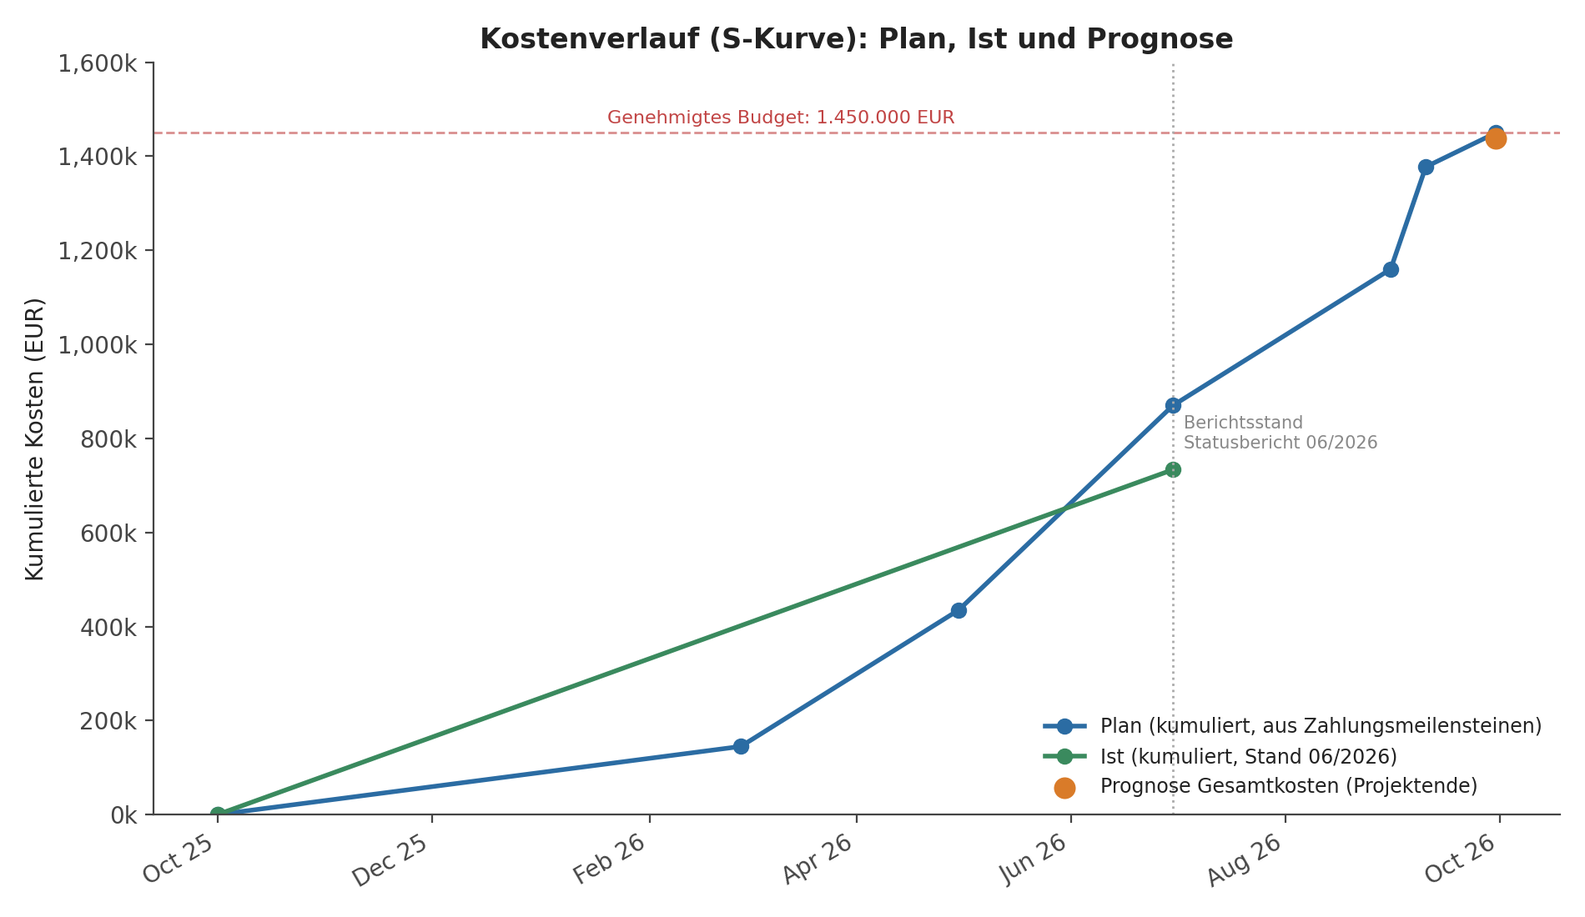
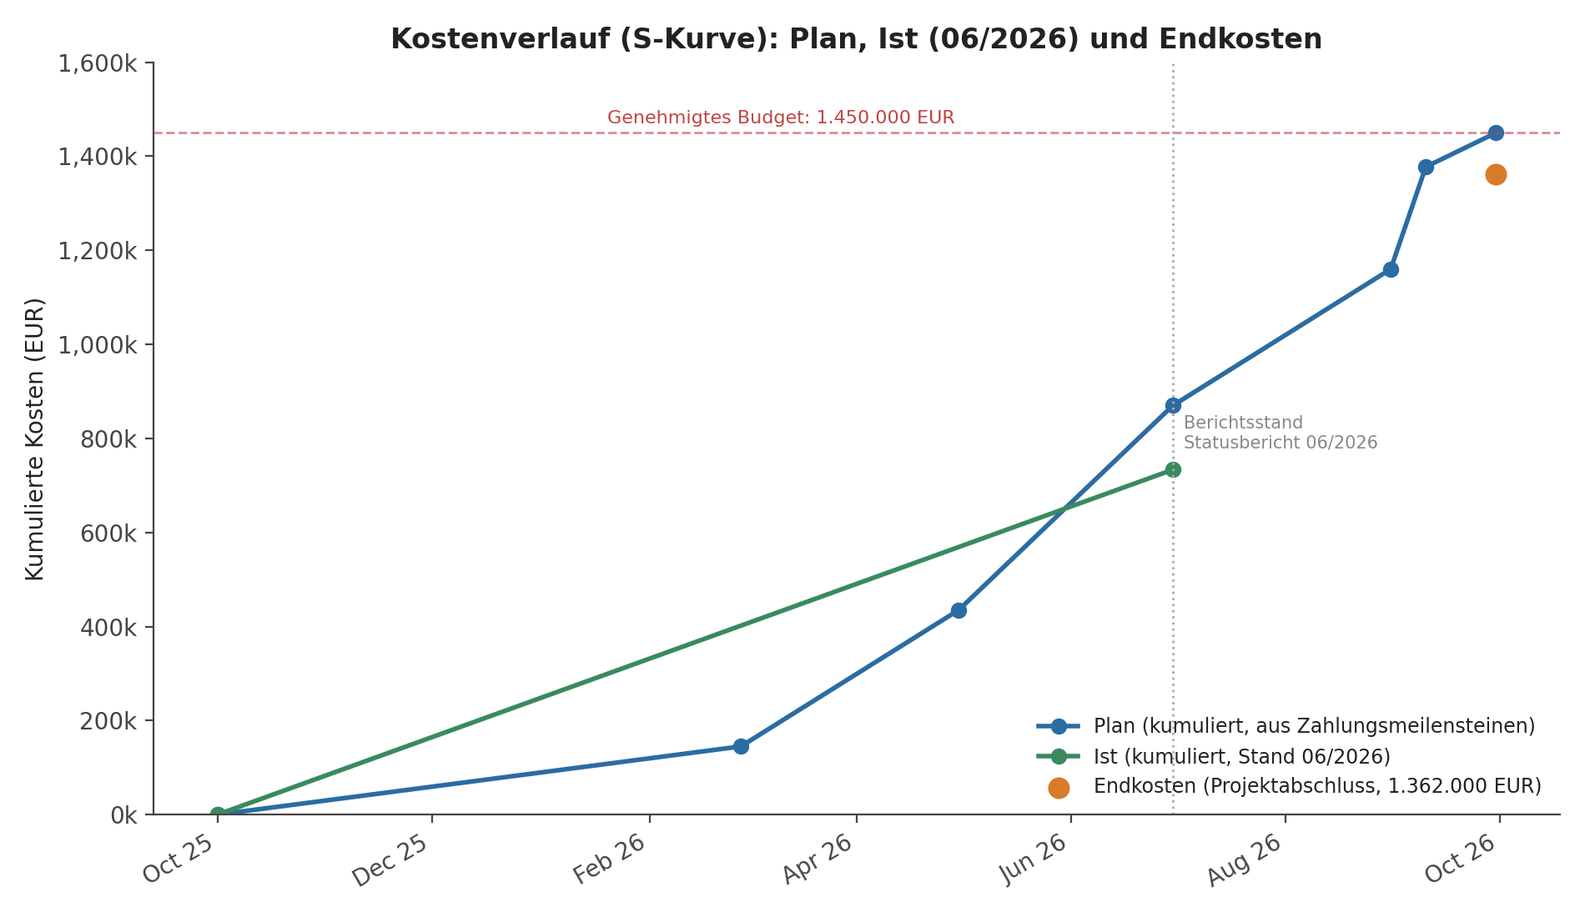
v3 changes
before file sortment

Changed region(s): [[0.6521, 0.7727, 0.9626, 0.8655], [0.2484, 0.0309, 0.8384, 0.0618], [0.9316, 0.1236, 0.9626, 0.2164]]

diff --git a/portfolio_dashboard.html b/portfolio_dashboard.html
@@ -161,7 +161,7 @@
   <main>
     <section id="uebersicht" class="panel active">
       <h1>Portfolio-Übersicht</h1>
-      <p class="lede">Status aller internen Projekte.</p>
+      <p class="lede">Status aller internen Projekte. Portfolio-Berichtsstand: 13.07.2026 (Vorbereitung Steering Board 20.07.2026). P1 befindet sich zu diesem Stand in der Ausführung; der Abschluss von P1 (30.09.2026) ist in <code>data/</code> und <code>docs/</code> dokumentiert.</p>
       <div class="stat-row" id="statRow"></div>
       <div class="card">
         <h2>Budget nach Kategorie</h2>
@@ -223,7 +223,7 @@
 
 <script>
 const projects = [
-  {id:'P1', name:'380-kV-Leistungsschalterfeld UW Mitte', kategorie:'Anlagenerneuerung', nutzen:4, risiko:4, dringlichkeit:4, budget:1450000, ist:733500, fortschritt:64, status:'gruen', start:'2025-10-01', end:'2026-09-30'},
+  {id:'P1', name:'380-kV-Leistungsschalterfeld UW Mitte', kategorie:'Anlagenerneuerung', nutzen:4, risiko:4, dringlichkeit:4, budget:1450000, ist:733500, fortschritt:71, status:'gruen', start:'2025-10-01', end:'2026-09-30'},
   {id:'P2', name:'Einheitliches PM-Reporting für interne Projekte', kategorie:'Governance & PM-Standards', nutzen:5, risiko:2, dringlichkeit:5, budget:180000, ist:40000, fortschritt:20, status:'gruen', start:'2026-06-01', end:'2027-01-31'},
   {id:'P3', name:'Standardisierung Inbetriebnahme-Checklisten', kategorie:'Qualität & Prozess', nutzen:3, risiko:2, dringlichkeit:3, budget:95000, ist:60000, fortschritt:55, status:'gelb', start:'2026-05-01', end:'2026-11-30'},
   {id:'P4', name:'Digitalisierung Ersatzteillager-Verwaltung', kategorie:'Digitalisierung', nutzen:4, risiko:3, dringlichkeit:3, budget:310000, ist:55000, fortschritt:15, status:'gruen', start:'2026-06-01', end:'2027-04-30'},
@@ -244,7 +244,6 @@ const risks = [
   {id:'R-06', projekt:'P1', beschreibung:'Sicherheitsverstoß auf Baustelle', wert:15, owner:'Arbeitssicherheit'},
   {id:'R-04', projekt:'P1', beschreibung:'Verdeckte Fundamentschäden', wert:12, owner:'Bautechnik'},
   {id:'R-05', projekt:'P1', beschreibung:'Unvollständige Abschlussdokumentation', wert:12, owner:'Projektleitung'},
-  {id:'R-08', projekt:'P1', beschreibung:'FAT zeigt kritische Funktionsabweichung', wert:12, owner:'Fachprojektleitung'},
   {id:'R-07', projekt:'P1', beschreibung:'Kran oder Transportmittel nicht verfügbar', wert:8, owner:'Auftragnehmer'},
   {id:'R-09', projekt:'P2', beschreibung:'Geringe Akzeptanz des neuen Reporting-Tools bei Projektleitern', wert:12, owner:'PMO'},
   {id:'R-11', projekt:'P5', beschreibung:'Verzögerte Freigaben durch Einkauf verlangsamen Rollout', wert:10, owner:'Einkauf'},
@@ -378,7 +377,7 @@ function renderGantt(){
   const today = '2026-07-13';
   const todayLeft = labelW + pct(today)*chartW;
   html += `<div class="gantt-today-line" style="left:${todayLeft}px; top:${headerH}px; height:${lineBottom-headerH}px;"></div>`;
-  html += `<div class="gantt-axis-label" style="left:${todayLeft+4}px; top:${lineBottom+2}px; color:var(--brand-deep); font-weight:600;">Heute</div>`;
+  html += `<div class="gantt-axis-label" style="left:${todayLeft+4}px; top:${lineBottom+2}px; color:var(--brand-deep); font-weight:600;">Stand 13.07.</div>`;
 
   projects.forEach((p,i)=>{
     const top = headerH + i*rowH;

diff --git a/assets/diagrams/make_charts.py b/assets/diagrams/make_charts.py
@@ -156,15 +156,15 @@ plan_points = [
     (dt.date(2026,9,10), 1377500),     # M7 Inbetriebnahme - 95% cum.
     (dt.date(2026,9,30), 1450000),     # M8 Abschluss - 100% cum.
 ]
-ist_point = (dt.date(2026,6,30), 733500)   # Summe Ist_EUR aus budgetplan.csv, Berichtsstand Statusbericht 06/2026
-prognose_point = (dt.date(2026,9,30), 1438000)  # Summe Prognose_EUR aus budgetplan.csv
+ist_point = (dt.date(2026,6,30), 733500)   # Summe Ist_06_2026_EUR aus budgetplan.csv, Berichtsstand Statusbericht 06/2026
+prognose_point = (dt.date(2026,9,30), 1362000)  # Summe Ist_EUR aus budgetplan.csv, Endkosten bei Projektabschluss
 
 fig, ax = plt.subplots(figsize=(9.5, 5.5))
 px = [p[0] for p in plan_points]
 py = [p[1] for p in plan_points]
 ax.plot(px, py, color=BLUE, marker="o", lw=2, label="Plan (kumuliert, aus Zahlungsmeilensteinen)")
 ax.plot([dt.date(2025,10,1), ist_point[0]], [0, ist_point[1]], color=GREEN, lw=2, marker="o", label="Ist (kumuliert, Stand 06/2026)")
-ax.scatter([prognose_point[0]], [prognose_point[1]], color=ORANGE, s=70, zorder=5, label="Prognose Gesamtkosten (Projektende)")
+ax.scatter([prognose_point[0]], [prognose_point[1]], color=ORANGE, s=70, zorder=5, label="Endkosten (Projektabschluss, 1.362.000 EUR)")
 ax.axhline(1450000, color=RED, lw=1, ls="--", alpha=0.6)
 ax.text(dt.date(2026,1,20), 1470000, "Genehmigtes Budget: 1.450.000 EUR", color=RED, fontsize=8, ha="left")
 
@@ -175,7 +175,7 @@ ax.xaxis.set_major_formatter(mdates.DateFormatter("%b %y"))
 ax.xaxis.set_major_locator(mdates.MonthLocator(interval=2))
 ax.set_ylim(0, 1600000)
 ax.set_ylabel("Kumulierte Kosten (EUR)")
-ax.set_title("Kostenverlauf (S-Kurve): Plan, Ist und Prognose", fontsize=12, fontweight="bold")
+ax.set_title("Kostenverlauf (S-Kurve): Plan, Ist (06/2026) und Endkosten", fontsize=12, fontweight="bold")
 ax.legend(loc="lower right", fontsize=8.5, frameon=False)
 ax.spines[["top","right"]].set_visible(False)
 ax.yaxis.set_major_formatter(lambda v, pos: f"{v/1000:,.0f}k")
@@ -410,7 +410,7 @@ ax.set_ylim(0, 520)
 ax2 = ax.twinx()
 ax2.plot(xs, [s/1000 for s in summe], color=DARK, marker="o", lw=2.2, label="Kostensummenlinie (Plan, kumuliert)")
 ax2.scatter([8], [733.5], color=GREEN, s=80, zorder=6, label="Ist kumuliert (Stand 06/2026: 733.500 EUR)")
-ax2.scatter([11], [1438], color=ORANGE, s=80, zorder=6, label="Prognose Projektende (1.438.000 EUR)")
+ax2.scatter([11], [1362], color=ORANGE, s=80, zorder=6, label="Endkosten Projektabschluss (1.362.000 EUR)")
 ax2.axhline(1450, color=RED, lw=1, ls="--", alpha=0.6)
 ax2.text(0.0, 1468, "Genehmigtes Budget 1.450.000 EUR", color=RED, fontsize=8)
 ax2.set_ylim(0, 1650)

diff --git a/src/project_dashboard.py b/src/project_dashboard.py
@@ -23,6 +23,10 @@ from typing import Iterable
 ROOT = Path(__file__).resolve().parents[1]
 DATA = ROOT / "data"
 
+# Datenstand der CSV-Dateien: Projektabschluss (Meilenstein M8).
+# Für den laufenden Betrieb stattdessen date.today() verwenden.
+DATENSTAND = date(2026, 9, 30)
+
 
 def read_csv(filename: str) -> list[dict[str, str]]:
     path = DATA / filename
@@ -50,6 +54,7 @@ def budget_summary() -> None:
     forecast = sum(float(r["Prognose_EUR"]) for r in rows)
     variance = forecast - plan
     variance_pct = variance / plan * 100 if plan else 0.0
+    overrun_pct = max(variance_pct, 0.0)  # nur Überschreitungen werden bewertet
 
     heading("BUDGETSTATUS")
     print(f"Plan:        {eur(plan)}")
@@ -58,9 +63,9 @@ def budget_summary() -> None:
     print(f"Prognose:    {eur(forecast)}")
     print(f"Abweichung:  {eur(variance)} ({variance_pct:+.2f} %)")
 
-    if abs(variance_pct) <= 2:
+    if overrun_pct <= 2:
         status = "GRÜN"
-    elif abs(variance_pct) <= 5:
+    elif overrun_pct <= 5:
         status = "GELB"
     else:
         status = "ROT"
@@ -90,6 +95,8 @@ def risk_summary() -> None:
     top = sorted(open_risks, key=lambda r: int(r["Risikowert"]), reverse=True)[:5]
 
     heading("TOP-RISIKEN")
+    if not top:
+        print(f"Keine offenen Risiken (alle {len(rows)} Risiken geschlossen).")
     for r in top:
         print(
             f"{r['ID']:5} | Wert {int(r['Risikowert']):2} | "
@@ -139,7 +146,7 @@ def bid_evaluation() -> None:
 
 def main() -> None:
     print("PROJEKT-DASHBOARD: 380-kV-LEISTUNGSSCHALTERFELD")
-    print(f"Datenstand: {date.today().isoformat()}")
+    print(f"Datenstand: {DATENSTAND.isoformat()}")
     try:
         budget_summary()
         schedule_summary()

diff --git a/docs/00_Uebersicht_und_Report_Zuordnung.md b/docs/00_Uebersicht_und_Report_Zuordnung.md
@@ -31,24 +31,37 @@ Diese Datei ordnet jedem Kapitel des PM-Reports (Leitfaden Z01D, Vorlage `PM-Rep
 | Projekt | Erneuerung 380-kV-Leistungsschalterfeld, UW Mitte (fiktiv, abgeschlossen) |
 | Laufzeit | 01.10.2025 – 30.09.2026 (365 Kalendertage, 261 Arbeitstage) |
 | Abschaltfenster | 01.–10.09.2026 (10 Kalendertage) |
-| Budget / Prognose | 1.450.000 EUR / 1.438.000 EUR (−0,8 %) |
-| Reserve | 120.000 EUR |
-| Ist-Kosten zum Berichtsstand 06/2026 | 733.500 EUR (Plan 870.000 EUR) |
+| Budget / Endkosten | 1.450.000 EUR / 1.362.000 EUR (−6,1 %, Stand Projektabschluss 30.09.2026) |
+| Reserve | 120.000 EUR geplant, 37.000 EUR verbraucht (siehe 5.5) |
+| Ist-Kosten zum Berichtsstand 06/2026 | 733.500 EUR (Plan 870.000 EUR); Prognose damals 1.438.000 EUR |
 | Interner Aufwand gesamt | ca. 217 PT (Projektleitung 91,4 PT) |
 | Aufwand Montageteam im Abschaltfenster | 67 PT von 80 PT Kapazität (84 %) |
 | AP 6.3 „Neugerät montieren“ | 27,3 PT (PERT), 38.667 EUR Plan, Stichtag 04.09.2026: 57 % fertig, Prognose 28,5 PT / 39.600 EUR |
 | Risikosumme vorher / nachher | 102 / 53 (−48 %) |
-| Business Case | Barwertvorteil Neugerät gegenüber Weiterbetrieb ca. 1,45 Mio. EUR (20 Jahre, 4 %) |
+| Business Case | Barwertvorteil Neugerät gegenüber Weiterbetrieb ca. 1,44 Mio. EUR (20 Jahre, 4 %) |
 | Puffer bis zur Frist | 14 Arbeitstage (M7 10.09.2026, Frist 30.09.2026) |
 
-## 0.3 Hinweise zum Schreiben
+## 0.3 Datenstände im Repository
+
+Das Projekt ist abgeschlossen. Die Unterlagen enthalten deshalb bewusst mehrere Stände, die zeitlich zusammenpassen:
+
+| Stand | Datum | Wo | Inhalt |
+|---|---|---|---|
+| Projektabschluss | 30.09.2026 | `data/terminplan.csv`, `budgetplan.csv`, `risikoregister.csv`, `chancenregister.csv`, `change_log.csv`, `DASHBOARD_EXAMPLE.txt`, Doc 05 (5.5), 13 (13.0) | Alle Arbeitspakete abgeschlossen, Endkosten 1.362.000 EUR, alle Risiken geschlossen, alle Changes entschieden |
+| Statusbericht Juni | 06/2026 | Doc 12, Spalte `Ist_06_2026_EUR` in `budgetplan.csv`, Kostenkurve (18.1) | Fertigung läuft, FAT steht bevor, Ist 733.500 EUR |
+| Portfolio-Bericht | 13.07.2026 | `portfolio_uebersicht.csv`, `ressourcenkonflikte.csv`, `portfolio_dashboard.html`, Doc 14 | PMO-Sicht vor dem Steering Board am 20.07.2026 (dort wird CR-002 genehmigt) |
+| AP-Statusbericht | 04.09.2026 | Doc 25 | Ausführung im Abschaltfenster, AP 6.3 zu 57 % fertig |
+
+Für Kapitel 15 des Reports gilt nur Doc 25 (Stichtag während der Durchführung). Die anderen Stände dienen als Kontext.
+
+## 0.4 Hinweise zum Schreiben
 
 - Alle Zahlen sind **fiktive Planungsannahmen**. Im Report sollte das in Kapitel 1 klar stehen (siehe 1.10).
 - Der Report soll aus einem Guss sein: dasselbe Arbeitspaket AP 6.3 zieht sich durch Kapitel 11, 13, 14 und 15.
 - Die neuen Grafiken müssen in Overleaf in den Ordner `abbildungen/` hochgeladen werden. Dort liegen bisher nur die vier ursprünglichen Grafiken.
 - Für Kapitel 9 sind vier Rollen gefordert. Empfehlung: Auftraggeber, Projektleitung, Fachprojektleitung Primärtechnik, Betrieb (siehe 21.3).
 
-## 0.4 Änderungen dieser Überarbeitung (Konsistenz)
+## 0.5 Änderungen dieser Überarbeitung (Konsistenz)
 
 | Änderung | Grund |
 |---|---|
@@ -62,4 +75,8 @@ Diese Datei ordnet jedem Kapitel des PM-Reports (Leitfaden Z01D, Vorlage `PM-Rep
 | Doc 14, Portfolio-CSV und Dashboard von unternehmensfremden Begriffen bereinigt; Portfolio-Daten auf Datenstand 13.07.2026 gesetzt | Einheitliche Geschichte des fiktiven ÜNB |
 | Risikoregister um Ursachen, Korrekturmaßnahmen, Restwerte und Risiko R-09 erweitert; Chancenregister neu | Kapitel 7 |
 | Ressourcen-Gantt um Dokumentation/Qualität ergänzt, Einsatzzeiträume angepasst | Konsistenz zu 5.4 und den neuen Terminen |
+| Projektdaten (Termin, Budget, Risiken, Chancen, Changes) auf den Stand Projektabschluss 30.09.2026 gesetzt | Zuvor Zwischenstand 13.07.2026 mit überfälligen Vorgängen (T-08, T-09) im abgeschlossenen Projekt |
+| Endkosten 1.362.000 EUR (Reserve 37.000 EUR verbraucht), Business Case mit Zielbudget 1.450.000 EUR neu gerechnet | Ex-ante-Entscheidung auf Basis des Zielbudgets; Endkosten in Doc 05 (5.5) |
+| Dashboard-Skript: fester Datenstand 30.09.2026, Ampel bewertet nur Überschreitungen | Reproduzierbare Ausgabe; Unterschreitung ist kein Warnsignal |
+| Doc 12: Zahl offener Changes auf 1 korrigiert | Nur CR-002 war im Juni offen |
 | `make_charts.py` schreibt relativ zum Skriptordner und erzeugt alle Grafiken | Vorher fest verdrahteter Pfad |

diff --git a/README.md b/README.md
@@ -44,8 +44,8 @@ Das Projekt demonstriert die strukturierte Anwendung grundlegender Methoden des 
 | Projektbeginn | 01.10.2025 |
 | Status | Fiktives Projekt, abgeschlossen (Projektzeitraum 10/2025 bis 09/2026) |
 | Eigene Rolle | Projektleiter (Auftraggeberseite, ca. 0,35 FTE) |
-| Geplante Inbetriebnahme | 10.09.2026 (Frist: 30.09.2026) |
-| Budgetrahmen | 1.450.000 EUR |
+| Inbetriebnahme | 10.09.2026 (Frist: 30.09.2026), Projektabschluss 30.09.2026 |
+| Budgetrahmen | 1.450.000 EUR, Endkosten 1.362.000 EUR |
 | Auftraggeber | Fiktiver Übertragungsnetzbetreiber |
 | Ausführung | Externer Generalunternehmer mit mehreren Fachgewerken |
 | Betriebsunterbrechung | Geplantes Abschaltfenster von 10 Tagen (01.–10.09.2026) |
@@ -139,7 +139,7 @@ Das Projekt demonstriert die strukturierte Anwendung grundlegender Methoden des 
 | 15 | Projektumfeld und Stakeholderportfolio | Umfelddiagramm, Schnittstellen, Einfluss-/Interesse-Portfolio, Machtpromotoren |
 | 16 | Projektdesign und Ansatz | Erfolgskriterien-Priorisierung, Wahl des Vorgehensmodells, ausgearbeitetes Arbeitspaket |
 | 17 | Kommunikationsmodell | Anwendung des Vier-Seiten-Modells auf ein reales Abstimmungsgespräch |
-| 18 | Kosten- und Ressourcenkurven | Kosten-S-Kurve (Plan/Ist/Prognose), Ressourcen-Gantt mit Engpassressource |
+| 18 | Kosten- und Ressourcenkurven | Kosten-S-Kurve (Plan, Ist 06/2026, Endkosten), Ressourcen-Gantt mit Engpassressource |
 | 19 | Strategie und Business Case | Handlungsoptionen, Barwertvergleich, kritische Erfolgsfaktoren |
 | 20 | Governance und Organisationsform | Projektmerkmale, Projektart, ausgewogene Matrix, PMO und Portfolio, Gremien |
 | 21 | Projektorganisation und Kommunikationsmatrix | Eigene Rolle, Organigramm, Projektrollen, RACI, Kommunikationsmatrix |
@@ -158,7 +158,7 @@ Alternativ kann die [Beispielausgabe des Dashboards](DASHBOARD_EXAMPLE.txt) dire
 python src/project_dashboard.py
 ```
 
-Das Skript wertet Budget, Termine, Risiken und Änderungen aus den CSV-Dateien aus.
+Das Skript wertet Budget, Termine, Risiken und Änderungen aus den CSV-Dateien aus. Der Datenstand ist der Projektabschluss (30.09.2026, Konstante `DATENSTAND` im Skript). Weitere Berichtsstände (Statusbericht 06/2026, Portfolio-Bericht 13.07.2026, AP-Status 04.09.2026) sind in [docs/00_Uebersicht_und_Report_Zuordnung.md](docs/00_Uebersicht_und_Report_Zuordnung.md) unter 0.3 erklärt.
 
 Die Diagramme unter `assets/diagrams/` (Projektumfeld, Stakeholder-Portfolio, Kostenkurve, Ressourcen-Gantt) lassen sich bei Bedarf neu erzeugen:
 

diff --git a/docs/19_Strategie_und_Business_Case.md b/docs/19_Strategie_und_Business_Case.md
@@ -29,24 +29,26 @@
 | Instandhaltung Neugerät | 20.000 EUR p. a. |
 | Ausfallwahrscheinlichkeit Altgerät / Retrofit / Neugerät | 4,0 % / 2,0 % / 0,5 % p. a. |
 | Schadenshöhe je Ausfall (Eilreparatur, Netzengpassmanagement, Versorgungsunterbrechung) | 3.000.000 EUR |
-| Investition Option C | 1.438.000 EUR (Prognose Projektende, siehe 5) |
+| Investition Option C | 1.450.000 EUR (Zielbudget zum Zeitpunkt der Entscheidung, siehe 5.1) |
 
 **Ergebnis (Barwert der Kosten über 20 Jahre):**
 
 | Kostenart | A – Weiterbetrieb | B – Retrofit | C – Neugerät |
 |---|---:|---:|---:|
-| Investition | 0 EUR | 600.000 EUR | 1.438.000 EUR |
+| Investition | 0 EUR | 600.000 EUR | 1.450.000 EUR |
 | Instandhaltung | 1.730.769 EUR | – | 271.807 EUR |
 | Erwartete Ausfallkosten | 1.630.839 EUR | – | 203.855 EUR |
 | Betrieb Jahre 1–10 (Instandhaltung und Ausfallrisiko) | – | 973.307 EUR | – |
-| Ersatz in Jahr 10 (abgezinst) | – | 971.461 EUR | – |
+| Ersatz in Jahr 10 (abgezinst) | – | 979.568 EUR | – |
 | Betrieb Jahre 11–20 (Neugerät) | – | 191.780 EUR | – |
-| **Summe Barwert** | **3.361.608 EUR** | **2.736.549 EUR** | **1.913.661 EUR** |
+| **Summe Barwert** | **3.361.608 EUR** | **2.744.656 EUR** | **1.925.661 EUR** |
 
-- Vorteil Option C gegenüber A: **1.447.947 EUR** (Barwert der vermiedenen Kosten).
-- Vorteil Option C gegenüber B: **822.887 EUR**.
+- Vorteil Option C gegenüber A: **1.435.947 EUR** (Barwert der vermiedenen Kosten).
+- Vorteil Option C gegenüber B: **818.995 EUR**.
 - Statische Amortisation gegenüber A: jährliche Einsparung im ersten Jahr = 70.000 EUR (Instandhaltung) + 105.000 EUR (Ausfallrisiko) = 175.000 EUR. Damit ergibt sich 8,2 Jahre. Der Wert ist konservativ, weil die Instandhaltungskosten des Altgeräts weiter steigen.
 - Nicht monetärer Nutzen: bessere Ersatzteilverfügbarkeit, Zustandsüberwachung des Antriebs (siehe CR-001), digitale Dokumentation, geringere Sicherheitsrisiken bei Wartungsarbeiten.
+
+Die Rechnung nutzt bewusst das Zielbudget von 1.450.000 EUR, weil die Entscheidung vor Projektbeginn auf dieser Basis fiel. Die tatsächlichen Endkosten (1.362.000 EUR, siehe 5.5) verbessern das Ergebnis zusätzlich.
 
 **Entscheidung:** Option C wurde mit dem Projektauftrag (M1, 15.10.2025) durch den Auftraggeber freigegeben.
 

diff --git a/docs/18_Kosten_und_Ressourcenkurven.md b/docs/18_Kosten_und_Ressourcenkurven.md
@@ -2,7 +2,7 @@
 
 ## 18.1 Kostenkurve (kumuliert): Plan, Ist und Prognose
 
-Die kumulierte Plankurve wird aus den Zahlungsmeilensteinen (5.3) in Verbindung mit den Meilensteinterminen (4.1) abgeleitet; die Ist-Kurve und die Prognose stammen aus `data/budgetplan.csv` (Summe Ist_EUR bzw. Prognose_EUR), zum Berichtsstand des Statusberichts 06/2026 (12.).
+Die kumulierte Plankurve wird aus den Zahlungsmeilensteinen (5.3) in Verbindung mit den Meilensteinterminen (4.1) abgeleitet; die Ist-Kurve zum Berichtsstand 06/2026 stammt aus `data/budgetplan.csv` (Spalte `Ist_06_2026_EUR`, siehe Statusbericht 12), die Endkosten aus den Spalten `Ist_EUR` bzw. `Prognose_EUR` (Stand Projektabschluss).
 
 ![Kostenkurve](../assets/diagrams/kostenkurve.png)
 
@@ -13,9 +13,9 @@ Die kumulierte Plankurve wird aus den Zahlungsmeilensteinen (5.3) in Verbindung 
 | 30.06.2026 | M5 FAT (60 % kum.) | 870.000 EUR | Ist 733.500 EUR |
 | 31.08.2026 | M6 Lieferung (80 % kum.) | 1.160.000 EUR | – |
 | 10.09.2026 | M7 Inbetriebnahme (95 % kum.) | 1.377.500 EUR | – |
-| 30.09.2026 | M8 Abschluss (100 % kum.) | 1.450.000 EUR | Prognose 1.438.000 EUR |
+| 30.09.2026 | M8 Abschluss (100 % kum.) | 1.450.000 EUR | Endkosten 1.362.000 EUR |
 
-**Interpretation:** Zum Berichtsstand (Ende Juni 2026) liegen die tatsächlichen Kosten (733.500 EUR) unterhalb der Planlinie (870.000 EUR) – dies ist konsistent mit dem im Statusbericht (12.3) ausgewiesenen „Grün"-Status bei Kosten. Die Prognose zum Projektende (1.438.000 EUR) liegt 12.000 EUR bzw. 0,8 % unter dem genehmigten Budget und damit innerhalb der zulässigen Toleranz von 5 % (siehe Erfolgskennzahl 1.5).
+**Interpretation:** Zum Berichtsstand (Ende Juni 2026) liegen die tatsächlichen Kosten (733.500 EUR) unterhalb der Planlinie (870.000 EUR) – dies ist konsistent mit dem im Statusbericht (12.3) ausgewiesenen „Grün"-Status bei Kosten. Die Prognose lag im Juni bei 1.438.000 EUR. Die Endkosten zum Projektabschluss betragen 1.362.000 EUR und liegen 88.000 EUR bzw. 6,1 % unter dem genehmigten Budget (Aufschlüsselung in 5.5); die Toleranz von 5 % für Überschreitungen (siehe Erfolgskennzahl 1.5) ist eingehalten.
 
 ## 18.2 Ressourcen-Gantt und Engpassressource
 

diff --git a/docs/05_Budget_und_Ressourcen.md b/docs/05_Budget_und_Ressourcen.md
@@ -46,3 +46,29 @@ Das genehmigte Zielbudget beträgt **1.450.000 EUR**. Es beinhaltet eine Managem
 | Betrieb | 0,10 FTE |
 | Arbeitssicherheit/Umwelt | 0,08 FTE |
 | Dokumentation/Qualität | 0,08 FTE |
+
+## 5.5 Kostenstand bei Projektabschluss (30.09.2026)
+
+Quelle: `data/budgetplan.csv` (Spalten `Ist_EUR`, `Prognose_EUR`). Zum Abschluss sind Beauftragt, Ist und Prognose identisch.
+
+| Kostenblock | Plan | Endkosten | Abweichung |
+|---|---:|---:|---:|
+| Engineering | 160.000 EUR | 158.000 EUR | −2.000 EUR |
+| Leistungsschalter und Antrieb | 670.000 EUR | 665.000 EUR | −5.000 EUR |
+| Sekundärtechnik und Schnittstellen | 120.000 EUR | 121.000 EUR | +1.000 EUR |
+| Transport und Logistik | 60.000 EUR | 59.000 EUR | −1.000 EUR |
+| Demontage und Montage | 210.000 EUR | 213.000 EUR | +3.000 EUR |
+| Prüfungen und Inbetriebnahme | 80.000 EUR | 79.000 EUR | −1.000 EUR |
+| Dokumentation und Schulung | 30.000 EUR | 30.000 EUR | 0 EUR |
+| Reserve (verbraucht) | 120.000 EUR | 37.000 EUR | −83.000 EUR |
+| **Gesamt** | **1.450.000 EUR** | **1.362.000 EUR** | **−88.000 EUR (−6,1 %)** |
+
+**Verwendung der Reserve (37.000 EUR):**
+
+| Verwendung | Betrag |
+|---|---:|
+| CR-002 Anpassung Fundamentadapter (Genehmigung 20.07.2026, siehe 10.4) | 18.500 EUR |
+| Voruntersuchung und Reparaturkonzept Fundament (Risiko R-04) | 12.000 EUR |
+| Sonstige Risikovorsorge (Abschaltfenster R-03, Montagekapazität R-09) | 6.500 EUR |
+
+Die nicht verbrauchten 83.000 EUR der Reserve gehen an den Auftraggeber zurück. Die Toleranz von 5 % (Erfolgskennzahl in 1.5) gilt für Überschreitungen und ist eingehalten.

diff --git a/docs/12_Statusbericht.md b/docs/12_Statusbericht.md
@@ -1,6 +1,6 @@
 # 12. Beispielhafter Projektstatusbericht
 
-**Berichtsmonat:** Juni 2026  
+**Berichtsmonat:** Juni 2026 (historischer Berichtsstand während der Fertigung; die Endkosten stehen in 5.5)  
 **Gesamtstatus:** GELB
 
 ## 12.1 Management Summary
@@ -25,7 +25,7 @@ Das Projekt liegt grundsätzlich im genehmigten Rahmen. Der Factory Acceptance T
 | Gesamtbudget | 1.450.000 EUR | Prognose 1.438.000 EUR |
 | Terminfortschritt | 68 % | 66 % |
 | Offene hohe Risiken | 2 | 2 |
-| Offene Changes | 2 | 2 |
+| Offene Changes | 1 | 1 |
 | Überfällige Dokumente | 0 | 2 |
 
 ## 12.4 Entscheidungen erforderlich
@@ -41,4 +41,4 @@ Das Projekt liegt grundsätzlich im genehmigten Rahmen. Der Factory Acceptance T
 | Dokumentenplan aktualisieren | Auftragnehmer | 16.06.2026 | In Arbeit |
 | FAT-Readiness-Review durchführen | FPL | 22.06.2026 | Offen |
 | CR-002 entscheiden | Auftraggeber | 18.06.2026 | Offen |
-| Abschaltfenster bestätigen | Betrieb | 30.06.2026 | Offen |
+| Schaltantrag für das Abschaltfenster einreichen (Fenster selbst ist bestätigt, siehe 15.2) | Betrieb | 30.06.2026 | Offen |

diff --git a/docs/01_Projektauftrag.md b/docs/01_Projektauftrag.md
@@ -85,7 +85,7 @@ Der bestehende Leistungsschalter hat das Ende seiner vorgesehenen Nutzungsdauer 
 | Auftragnehmer | Externer Generalunternehmer mit mehreren Fachgewerken |
 | Laufzeit | 01.10.2025 bis 30.09.2026 |
 | Abschaltfenster | 01.–10.09.2026 (10 Kalendertage) |
-| Budget | 1.450.000 EUR inklusive Reserve von 120.000 EUR; Prognose 1.438.000 EUR |
+| Budget | 1.450.000 EUR inklusive Reserve von 120.000 EUR; Endkosten 1.362.000 EUR (Stand Projektabschluss, siehe 5.5) |
 | Umfang | Leistungsschalter, Antrieb, Anschlusskomponenten, Hilfsspannung, Sekundärschnittstellen, Dokumentation |
 | Meilensteine | M1 15.10.2025, M2 28.11.2025, M3 27.02.2026, M4 30.04.2026, M5 30.06.2026, M6 31.08.2026, M7 10.09.2026, M8 30.09.2026 |
 | Vorgehen | Klassisch, plangetrieben, mit Quality Gates (FAT, SAT, Abnahme) |

diff --git a/docs/13_Lessons_Learned.md b/docs/13_Lessons_Learned.md
@@ -1,5 +1,15 @@
 # 13. Lessons Learned
 
+## 13.0 Projektergebnis (Stand 30.09.2026)
+
+| Kriterium | Plan | Ergebnis |
+|---|---|---|
+| Inbetriebnahme (M7) | 10.09.2026 | 10.09.2026, im Abschaltfenster (01.–10.09.2026) |
+| Projektabschluss (M8) | 30.09.2026 | 30.09.2026 |
+| Kosten | 1.450.000 EUR | 1.362.000 EUR (−6,1 %), Reserve zu 37.000 EUR verbraucht (siehe 5.5) |
+| Changes | – | CR-001 (+6.500 EUR), CR-002 (+18.500 EUR), CR-003 (−2.000 EUR): alle genehmigt, netto +23.000 EUR |
+| Risiken | 9 Risiken im Register | alle geschlossen (`data/risikoregister.csv`) |
+
 ## 13.1 Was gut funktioniert hat
 
 - Anforderungen wurden vor der Ausschreibung strukturiert und prüfbar formuliert.

diff --git a/docs/22_Phasenplan_und_Aufwand.md b/docs/22_Phasenplan_und_Aufwand.md
@@ -145,4 +145,4 @@ Berechnung: Aufwand = FTE × Arbeitstage im Einsatzzeitraum der Rolle innerhalb 
 
 - Interne Personalkosten sind nicht im Zielbudget von 1.450.000 EUR enthalten. Sie werden als Aufwand in PT ausgewiesen.
 - Die Phasenkosten folgen dem Zahlungsplan (5.3): 10 % bei Bestellung (M3), 20 % bei Freigabe Engineering (M4), 30 % bei FAT (M5), 20 % bei Lieferung (M6), 15 % bei Inbetriebnahme (M7), 5 % bei vollständiger Dokumentation (M8). Der Plan umfasst die Reserve von 120.000 EUR.
-- Prognose Gesamtkosten: 1.438.000 EUR (siehe 12 und 18).
+- Endkosten zum Projektabschluss: 1.362.000 EUR (siehe 5.5). Zum Berichtsstand 06/2026 lag die Prognose bei 1.438.000 EUR (siehe 12 und 18).
